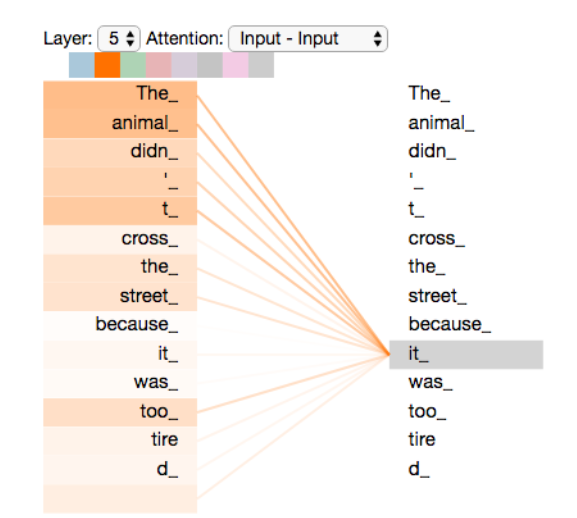
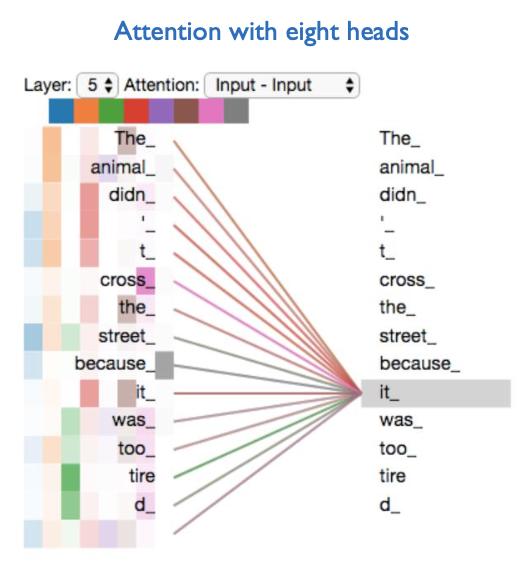
2022-10-04

Changed region(s): [[0.0301, 0.0309, 0.9624, 0.9884]]

diff --git a/Transformer Attention is all you need/questions.md b/Transformer Attention is all you need/questions.md
@@ -1,28 +1,46 @@
 ### Head가 8개면 앞 뒤 8개 단어를 찾는다는건가? Head를 쓰는 이유는 뭐지?
 
-### Transformer가 학습하는 원리는 뭐지?
+### Transformer가 훈련하는 과정과 예측하는 과정의 차이?
 
-트랜스포머의 학습(train)은 인코더와 디코더 입력이 주어졌을 때 정답에 해당하는 단어의 확률 값을 높이는 방식으로 수행됩니다. 이를 나타낸 다음 그림을 보면 모델은 이번 시점의 정답인 I에 해당하는 확률은 높이고 나머지 단어의 확률은 낮아지도록, 모델 전체를 갱신합니다.
+훈련과 예측에는 decoder 작동 방식이 다름
+
+**훈련**
+
+- 번역으로 예시
+
+- Input(한국어), Output(영어) Set 준비
+- 예시 : `어제, 카페, 갔었어, 거기, 사람, 많더라 > I, went, to, the, cafe, There, were, many, people, there`
+- Encoder 단에는 한국어 Input에 포함된 단어 간 관계를 정교화 한 임베딩 벡터를 만듬
+- 그 결과를 Decoder 구조의 중간 Attention에 연결
+- Decoder 단 시작부에는 mask가 쓰여있는 임베딩 벡터를 생성(개념적으로는 순차적으로 학습하는 거지만, 병렬 연산을 위해 모든 단계를 만들어놈)
+
+  <img alt='img16' src='./img/img16.png' style="width : 400px">
+
+- masked attention과 encoder에서 들어오는 정보를 encoder 단 가운데 Attention 파트에서 연산한 뒤 output을 출력
+
+  - 모델 입장(?)에서 봤을 때 input 한국어 문장은 볼 수 있기 때문에, 가장 확률이 높은 영단어 하나를 문장의 첫 시작으로 선택
+
+  - 그 다음은 전체 한국어 문장과 이전에 모델이 선택한 단어들을 종합해서 비교해 다음 단어를 예측함
+
+- 출력한 output의 probability와 실제 output을 비교해 W를 줄임
+
+- **예측 단계와 차이점은 이전 예측했던 단어가 예측값이 아닌 실제 정답으로 바뀐다는 것임.**
+
+  - 가령 모델이 you라고 예측 했어도 다음 예측 할때에는 오답인 you가 정답인 I로 바뀌어 있게 된다.
+
+**예측**
+
+- 훈련 단계에서 설명한 바와 같이, 예측 단계에서는 기계가 예측한 값을 그대로 다음 단어 예측에 활용한다.
+
+- 훈련이라면 모델이 you를 예측했어도 I인 상태에서 다음 단어를 예측했다면 예측에서는 you로 예측하면 you와 한국어 문장 저네를 가지고 다음 단어를 예측한다.
 
 출처 : <a href = 'https://ratsgo.github.io/nlpbook/docs/language_model/transformers/'> Transformer 살펴보기 </a>
 
 ### Scaled dot product attention은 무엇을 계산하려는 용도이지?
 
-    해당 식으로 W를 찾는건가?
+Scaled dot product attention = attention
 
-### Score은 뭐지..? (임시저장용)
-
-- query와 key의 곱을 한뒤 attention 차원의 루트 값으로 나눈다.
-
-  $score(p,k) = \frac{Q K^\text{T}}{\sqrt{d}}$
-
-    <img alt='img12' src='./img/img12.png' style="width : 400px">
-
-- score을 통해 query, key, value의 W을 찾는다.
-
-  - forward Propagation 예시 : $embedding(1*4) * W^Q (4*3) = q_1(1*3)$
-
-      <img alt='img6' src='./img/img6.png' style="width : 500px">
+단어 별로 관련성 높은 것들을 문장 내에서 매칭시킴
 
 ### Attention이 이해가 안된다.
 
@@ -33,8 +51,13 @@
 
 셀프 어텐션이란, 말 그대로 자기 자신에 수행하는 어텐션 기법입니다. 입력 시퀀스 가운데 태스크 수행에 의미 있는 요소들 위주로 정보를 추출한다는 것이죠.
 
-**Attention 탄생 배경 **
+**Attention 탄생 배경**
 RNN은 시퀀스 길이가 길어질 수록 정보 압축에 문제가 발생합니다. 오래 전에 입력된 단어는 잊어버리거나, 특정 단어 정보를 과도하게 반영해 전체 정보를 왜곡하는 경우가 자주 생긴다는 것이죠. 어텐션은 이러한 문제점을 해결하기 위해 제안됐습니다. 디코더 쪽 RNN에 어텐션을 추가하는 방식입니다. 어텐션은 디코더가 타깃 시퀀스를 생성할 때 소스 시퀀스 전체에서 어떤 요소에 주목해야 할지 알려주므로 카페가 소스 시퀀스 초반에 등장하거나 소스 시퀀스의 길이가 길어지더라도 번역 품질이 떨어지는 것을 막을 수 있습니다. 참고로 그림14의 예시에서는 어텐션 기법으로 주목되는 단어에 좀 더 짙고 굵은 실선을 그려 놓았습니다.
+
+이처럼 개별 단어와 전체 입력 시퀀스를 대상으로 어텐션 계산을 수행해 문맥 전체를 고려하기 때문에 지역적인 문맥만 보는 CNN 대비 강점이 있습니다. 아울러 모든 경우의 수를 고려(단어들 서로가 서로를 1대 1로 바라보게 함)하기 때문에 시퀀스 길이가 길어지더라도 정보를 잊거나 왜곡할 염려가 없습니다. 이는 RNN의 단점을 극복한 지점입니다.
+
+**Multi_head_attention**
+멀티-헤드 어텐션(Multi-Head Attention)은 셀프 어텐션(self attention)을 여러 번 수행한 걸 가리킵니다. 여러 헤드가 독자적으로 셀프 어텐션을 계산한다는 이야기입니다. 비유하자면 같은 문서(입력)를 두고 독자(헤드) 여러 명이 함께 읽는 구조라 할 수 있겠습니다.
 
 ### LayerNorm 장점 및 적용하는 이유는?
 

diff --git a/용어정리.md b/용어정리.md
@@ -1,3 +1,44 @@
+### 딥러닝 구조 이해
+
+딥러닝 구조는 linear -> nonlinear -> linear -> ... -> nonlinear 로 구성된다.
+
+linear-nonlinear의 반복으로 레이어가 구성된 배경은 일정 수준 이상의 신호만 결과를 출력하는 뉴럴의 구조를 모방했기 때문이다.
+
+이러한 구조를 수학식으로 구현하기 위해서 softmax, sigmoid, relu,gelu와 같은 함수를 이용한다. 앞선 함수들을 통칭하는 말은 activation 함수이다.
+
+딥러닝 구조가 activation 함수를 사용하기 때문에 classification을 regression으로 해결하는 모델의 끝판왕이라고 이해해도 무방하다.
+
+softmax regression이 input -> output 1단 구조라면 딥러닝은 input으로 얻은 output을 다시 input으로서 활용해 output을 계산하고 이를 여러번 반복하는 다단 구조이다.
+
+그러므로 deep learning의 linear-nonlinear 구조 하나는 multimodal classification(여러 개의 클래스를 regression으로 예측하는 머신러닝 분야) 구조와 같다.
+
+예시를 들어보자. 강아지, 고양이, 닭을 구분하는 softmax regression 모델을 만든다고 생각하자. 강아지, 고양이, 닭을 구분하기 위해서는 3개의 output이 필요하다. output을 만들기 위한 함수의 변수를 보면 input인 x는 동일하나 W와 B가 다름을 알 수 있다.
+
+$\begin{aligned}
+o_1 &= softmax(x_1 w_{11} + x_2 w_{21} + x_3 w_{31} + x_4 w_{41} + b_1),\\
+o_2 &= softmax(x_1 w_{12} + x_2 w_{22} + x_3 w_{32} + x_4 w_{42} + b_2),\\
+o_3 &= softmax(x_1 w_{13} + x_2 w_{23} + x_3 w_{33} + x_4 w_{43} + b_3).
+\end{aligned}$
+
+> 이때 $\sum{o_n} =1$
+
+이를 deep learning 구조로 표현하면 아래와 같이 표현할 수 있다.
+
+<img alt='img7' src='./img/img7.png' style="width : 600px">
+
+개별 output unit(동그라미)은 logistic regression 모델의 작동원리와 마찬가지로
+
+$x_1 w_{11} + x_2 w_{21} + x_3 w_{31} + x_4 w_{41} + b_1$를 통해 $o_1$을 구한 뒤 softmax함수에 넣어 output을 산출하게 된다.
+
+간단히 표현하면 아래와 같다.
+
+${\mathbf{o}}^{(i)} = \mathbf{W} {\mathbf{x}}^{(i)} + {\mathbf{b}} \\
+{\hat{\mathbf{y}}}^{(i)} = \mathrm{softmax}({\mathbf{o}}^{(i)})$
+
+딥러닝은 이렇게 얻은 $\hat{\mathbf{y}}^{(i)}$가 다시 input으로 활용되어 $o^{(i)}$를 구하고 다시 softmax를 활용해 $\hat{\mathbf{y}}^{(i)}$를 구하는 식으로 진행해 최종 결과물을 산출한다.
+
+<a href='https://ko.d2l.ai/chapter_deep-learning-basics/mlp.html'> Dive into Deep Learning </a>
+
 ### nn.Linear
 
 a simple fully connected neural network
@@ -126,3 +167,7 @@ Deep Learning은 Linear와 Activation function의 교환으로 구성된다. Lin
 <img alt='img6' src='./img/img6.png' style="width : 600px">
 
 출처 : <a href = 'https://ratsgo.github.io/nlpbook/docs/language_model/transformers/'> Transformer 살펴보기 </a>
+
+### softmax
+
+- 소프트맥스(softmax)란 입력 벡터의 모든 요솟값 범위를 0 이상, 1 이하로 하고 총합을 1이 되게끔 하는 함수입니다. 어떤 입력이든 소프트맥스 함수를 적용하면 해당 값이 확률로 변환됩니다.
